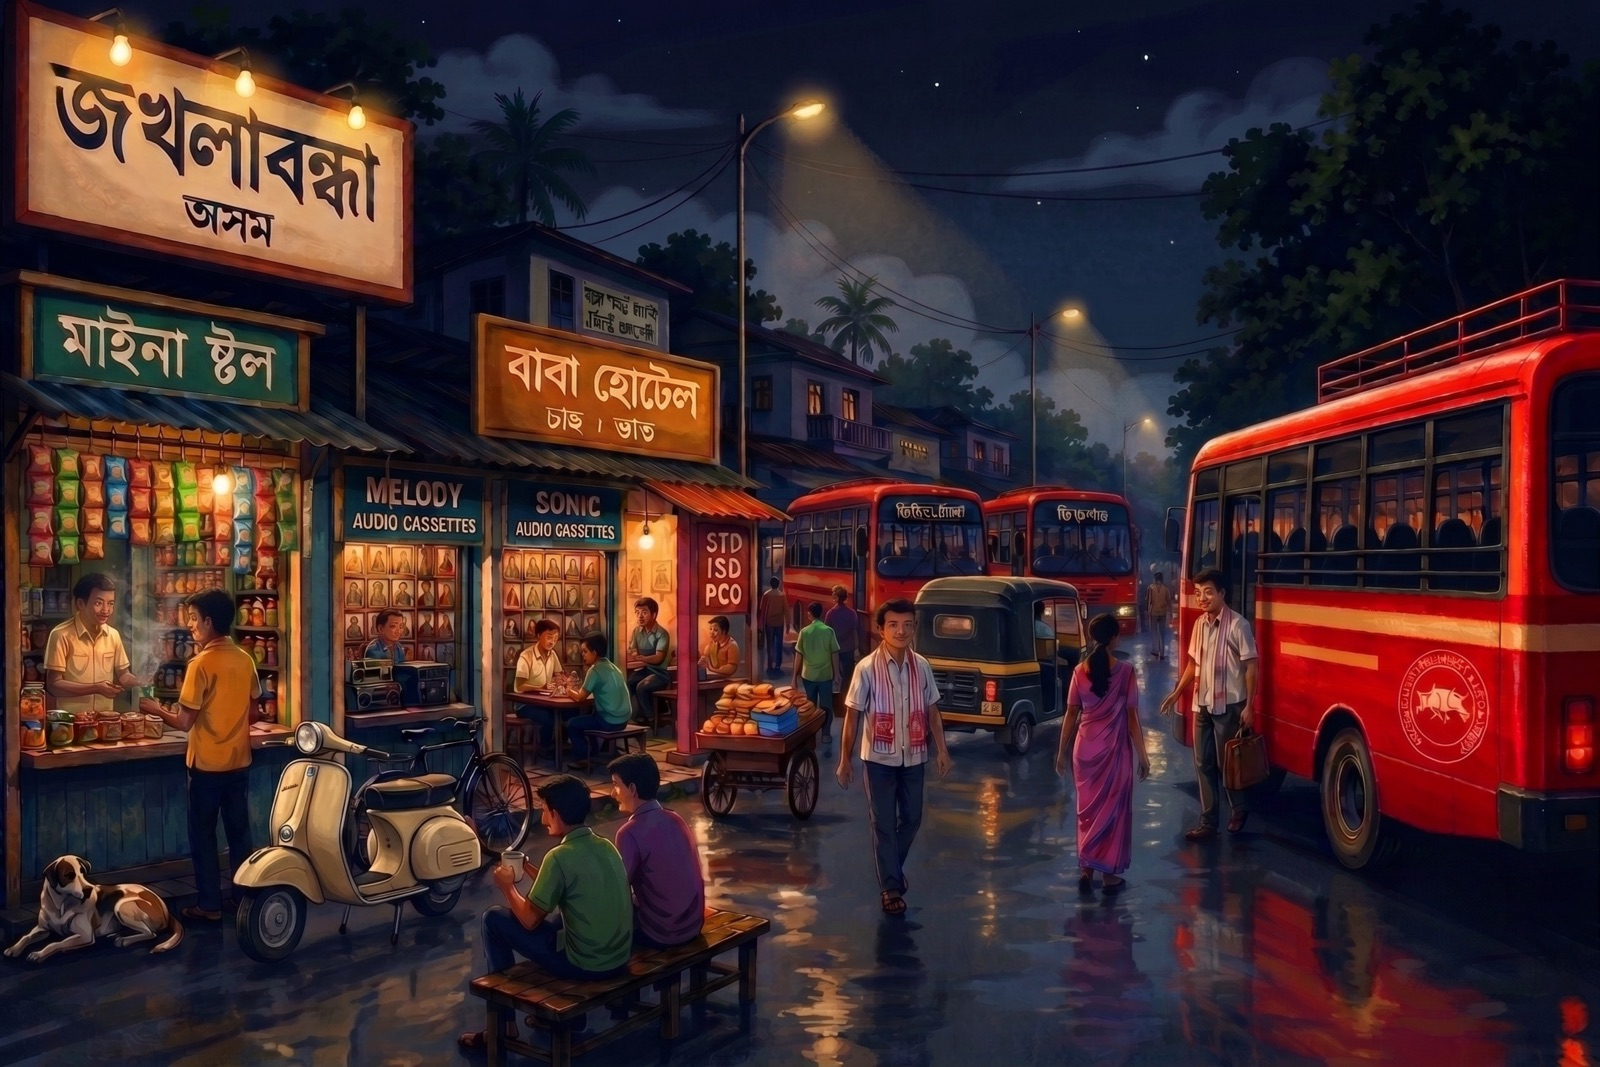
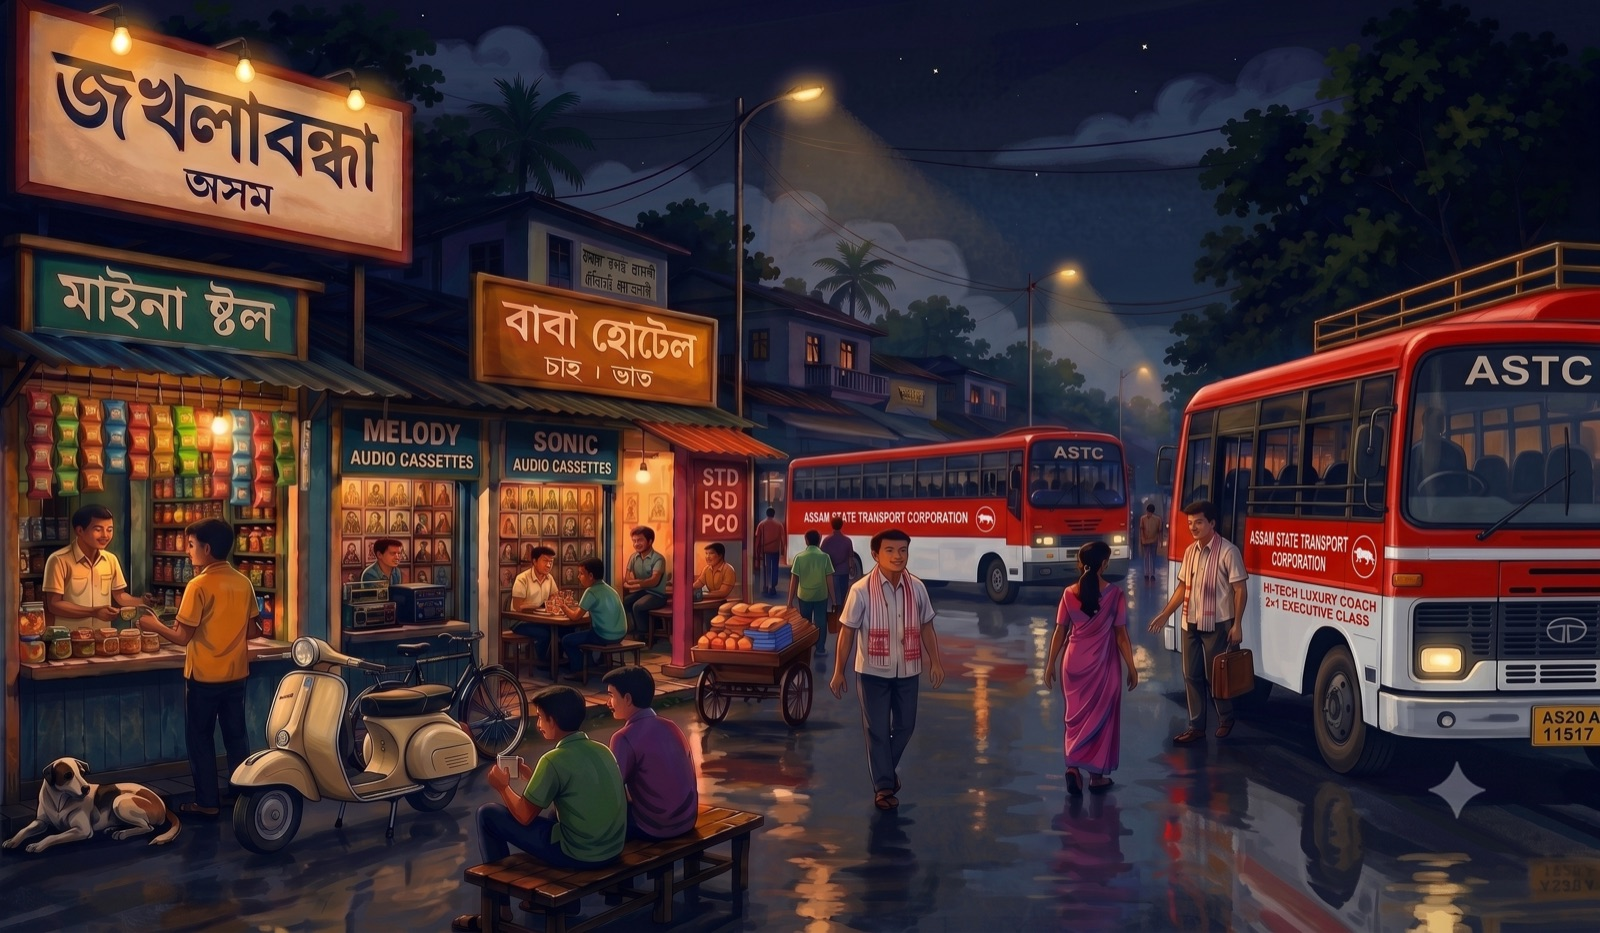
Swap hero artwork to 16:9 edition; move site chrome into page flow

diff --git a/src/components/ui/music-player.tsx b/src/components/ui/music-player.tsx
@@ -18,7 +18,7 @@ interface MusicPlayerProps {
   audioSrc: string;
 }
 
-// The main MusicPlayer component
+// The main MusicPlayer component — a compact, horizontal bar
 export const MusicPlayer: React.FC<MusicPlayerProps> = ({ albumArt, songTitle, artistName, audioSrc }) => {
   const [isPlaying, setIsPlaying] = useState(false);
   const [duration, setDuration] = useState(0);
@@ -84,7 +84,7 @@ export const MusicPlayer: React.FC<MusicPlayerProps> = ({ albumArt, songTitle, a
   const toggleRepeat = () => setIsRepeat(!isRepeat);
 
   return (
-    <div className="relative w-[min(320px,88vw)] rounded-xl border border-[#2F323B] bg-[#0B0B0E]/95 p-5 text-white shadow-[0_35px_70px_-25px_rgba(0,0,0,0.85)] backdrop-blur-md sm:w-[min(360px,88vw)]">
+    <div className="relative flex w-[min(480px,88vw)] items-center gap-3 rounded-xl border border-[#2F323B] bg-[#0B0B0E]/95 p-3 text-white shadow-[0_35px_70px_-25px_rgba(0,0,0,0.85)] backdrop-blur-md sm:gap-4 sm:p-3.5">
        <style>{`
         .player-progress {
             --progress: 0%;
@@ -139,76 +139,72 @@ export const MusicPlayer: React.FC<MusicPlayerProps> = ({ albumArt, songTitle, a
        `}</style>
 
       {/* corner markers */}
-      <Plus size={10} strokeWidth={1.5} className="pointer-events-none absolute left-2.5 top-2.5 text-white/25" />
-      <Plus size={10} strokeWidth={1.5} className="pointer-events-none absolute bottom-2.5 right-2.5 text-white/25" />
+      <Plus size={9} strokeWidth={1.5} className="pointer-events-none absolute left-1.5 top-1.5 text-white/25" />
+      <Plus size={9} strokeWidth={1.5} className="pointer-events-none absolute bottom-1.5 right-1.5 text-white/25" />
 
       <audio ref={audioRef} src={audioSrc} loop={isRepeat} preload="metadata" />
 
-      {/* Head: disc + track details */}
-      <div className="flex items-center gap-4">
-        <div className="relative h-14 w-14 shrink-0 sm:h-16 sm:w-16">
-          <div className={`disc-spin h-full w-full rounded-full ${isPlaying ? 'spinning' : ''}`}>
-            <img
-              src={albumArt}
-              alt={`${songTitle} album art`}
-              className="h-full w-full rounded-full object-cover ring-1 ring-white/15"
-              onError={(e) => { e.currentTarget.src = 'https://placehold.co/224x224/1a1a1a/ffffff?text=Music'; }}
-            />
-          </div>
-          <span className="pointer-events-none absolute left-1/2 top-1/2 h-1.5 w-1.5 -translate-x-1/2 -translate-y-1/2 rounded-full bg-black ring-1 ring-white/30" />
+      {/* Disc */}
+      <div className="relative h-11 w-11 shrink-0 sm:h-12 sm:w-12">
+        <div className={`disc-spin h-full w-full rounded-full ${isPlaying ? 'spinning' : ''}`}>
+          <img
+            src={albumArt}
+            alt={`${songTitle} album art`}
+            className="h-full w-full rounded-full object-cover ring-1 ring-white/15"
+            onError={(e) => { e.currentTarget.src = 'https://placehold.co/224x224/1a1a1a/ffffff?text=Music'; }}
+          />
         </div>
-
-        <div className="min-w-0 flex-1">
-          <p className="font-label text-[9px] uppercase tracking-[0.32em] text-white/40">Now playing</p>
-          <h2 className="font-editorial truncate text-xl leading-tight text-white sm:text-[22px]">{songTitle}</h2>
-          <p className="font-label text-[10px] uppercase tracking-[0.2em] text-white/50">{artistName}</p>
-        </div>
+        <span className="pointer-events-none absolute left-1/2 top-1/2 h-1 w-1 -translate-x-1/2 -translate-y-1/2 rounded-full bg-black ring-1 ring-white/30" />
       </div>
 
-      {/* hairline divider */}
-      <div className="my-4 h-px bg-[#2F323B]" />
+      {/* Track info + progress */}
+      <div className="min-w-0 flex-1">
+        <div className="flex items-baseline justify-between gap-3">
+          <h2 className="font-editorial truncate text-[15px] leading-tight text-white sm:text-base">{songTitle}</h2>
+          <p className="font-label hidden shrink-0 text-[8px] uppercase tracking-[0.18em] text-white/45 sm:block">
+            {artistName}
+          </p>
+        </div>
 
-      {/* Progress */}
-      <input
-        ref={progressBarRef}
-        type="range"
-        min="0"
-        max={duration || 100}
-        value={currentTime}
-        onChange={handleSeek}
-        className="player-progress block w-full"
-        aria-label="Seek through track"
-      />
-      <div className="mt-2 flex items-center justify-between font-label text-[9px] uppercase tracking-[0.14em] text-white/40">
-        <span className="tabular-nums">{formatTime(currentTime)}</span>
-        <span className="text-white/30">33⅓ rpm</span>
-        <span className="tabular-nums">{formatTime(duration)}</span>
+        <input
+          ref={progressBarRef}
+          type="range"
+          min="0"
+          max={duration || 100}
+          value={currentTime}
+          onChange={handleSeek}
+          className="player-progress -mb-1.5 -mt-0.5 block w-full"
+          aria-label="Seek through track"
+        />
+        <div className="flex justify-between font-label text-[8px] uppercase tracking-[0.12em] text-white/35">
+          <span className="tabular-nums">{formatTime(currentTime)}</span>
+          <span className="tabular-nums">{formatTime(duration)}</span>
+        </div>
       </div>
 
       {/* Controls */}
-      <div className="mt-4 flex items-center justify-between">
+      <div className="flex shrink-0 items-center gap-1 sm:gap-2">
         <motion.button
-          whileHover={{ scale: 1.15 }}
-          whileTap={{ scale: 0.85 }}
+          whileTap={{ scale: 0.8 }}
           onClick={toggleShuffle}
           aria-pressed={isShuffle}
-          className={`transition-colors duration-300 ${isShuffle ? 'text-white' : 'text-white/40 hover:text-white/70'}`}
+          aria-label="Shuffle"
+          className={`hidden rounded-full p-1.5 transition-colors duration-300 sm:block ${isShuffle ? 'text-white' : 'text-white/40 hover:text-white/70'}`}
         >
-          <Shuffle size={15} strokeWidth={1.5} />
+          <Shuffle size={13} strokeWidth={1.5} />
         </motion.button>
         <motion.button
-          whileHover={{ scale: 1.15 }}
-          whileTap={{ scale: 0.85 }}
-          className="text-white/60 transition-colors hover:text-white"
+          whileTap={{ scale: 0.8 }}
+          aria-label="Previous track"
+          className="rounded-full p-1.5 text-white/60 transition-colors hover:text-white"
         >
-          <SkipBack size={17} strokeWidth={1.5} />
+          <SkipBack size={15} strokeWidth={1.5} />
         </motion.button>
 
         <motion.button
           onClick={togglePlayPause}
           aria-label={isPlaying ? 'Pause music' : 'Play music'}
-          className="flex h-12 w-12 items-center justify-center rounded-full border border-white/25 bg-white/5 text-white transition-colors hover:bg-white/10"
-          whileHover={{ scale: 1.06 }}
+          className="flex h-11 w-11 items-center justify-center rounded-full border border-white/25 bg-white/5 text-white transition-colors hover:bg-white/10"
           whileTap={{ scale: 0.92 }}
         >
           <AnimatePresence mode="wait" initial={false}>
@@ -220,26 +216,26 @@ export const MusicPlayer: React.FC<MusicPlayerProps> = ({ albumArt, songTitle, a
               transition={{ duration: 0.15 }}
               className="flex items-center justify-center"
             >
-              {isPlaying ? <Pause size={18} strokeWidth={1.75} /> : <Play size={18} strokeWidth={1.75} className="ml-0.5" />}
+              {isPlaying ? <Pause size={16} strokeWidth={1.75} /> : <Play size={16} strokeWidth={1.75} className="ml-0.5" />}
             </motion.span>
           </AnimatePresence>
         </motion.button>
 
         <motion.button
-          whileHover={{ scale: 1.15 }}
-          whileTap={{ scale: 0.85 }}
-          className="text-white/60 transition-colors hover:text-white"
+          whileTap={{ scale: 0.8 }}
+          aria-label="Next track"
+          className="rounded-full p-1.5 text-white/60 transition-colors hover:text-white"
         >
-          <SkipForward size={17} strokeWidth={1.5} />
+          <SkipForward size={15} strokeWidth={1.5} />
         </motion.button>
         <motion.button
-          whileHover={{ scale: 1.15 }}
-          whileTap={{ scale: 0.85 }}
+          whileTap={{ scale: 0.8 }}
           onClick={toggleRepeat}
           aria-pressed={isRepeat}
-          className={`transition-colors duration-300 ${isRepeat ? 'text-white' : 'text-white/40 hover:text-white/70'}`}
+          aria-label="Repeat"
+          className={`hidden rounded-full p-1.5 transition-colors duration-300 sm:block ${isRepeat ? 'text-white' : 'text-white/40 hover:text-white/70'}`}
         >
-          <Repeat size={15} strokeWidth={1.5} />
+          <Repeat size={13} strokeWidth={1.5} />
         </motion.button>
       </div>
     </div>

diff --git a/src/App.tsx b/src/App.tsx
@@ -12,31 +12,8 @@ export default function App() {
         <div className="grain absolute inset-0 opacity-[0.05]" />
       </div>
 
-      {/* ---------------- Discreet site chrome ---------------- */}
-      <header className="pointer-events-none absolute left-[max(1.5rem,env(safe-area-inset-left))] top-[max(1.5rem,env(safe-area-inset-top))] z-30 flex items-center gap-3 sm:left-10 sm:top-8">
-        <span className="grid h-7 w-7 place-items-center rounded-sm border border-white/20">
-          <span className="h-1.5 w-1.5 rounded-full bg-white/70" />
-        </span>
-        <span className="font-label text-[10px] uppercase tracking-[0.35em] text-white/70">90's Assam</span>
-      </header>
-
-      <div className="pointer-events-none absolute right-[max(1.5rem,env(safe-area-inset-right))] top-[max(1.5rem,env(safe-area-inset-top))] z-30 hidden font-label text-[10px] uppercase tracking-[0.3em] text-white/40 md:flex md:items-center md:gap-3 md:right-10 md:top-8">
-        <span>Index 01</span>
-        <span className="h-3 w-px bg-white/20" />
-        <span className="text-white/60">Analog Session</span>
-      </div>
-
-      <footer className="pointer-events-none absolute bottom-[max(1.5rem,env(safe-area-inset-bottom))] left-[max(1.5rem,env(safe-area-inset-left))] z-30 flex flex-col gap-1 font-label text-[9px] uppercase tracking-[0.28em] text-white/35 sm:bottom-8 sm:left-10">
-        <span>26.2006° N — 92.9376° E</span>
-        <span className="text-white/60">Built by Javed Saikia</span>
-      </footer>
-
-      <div className="pointer-events-none absolute bottom-[max(1.5rem,env(safe-area-inset-bottom))] right-[max(1.5rem,env(safe-area-inset-right))] z-30 hidden font-label text-[9px] uppercase tracking-[0.28em] text-white/35 sm:bottom-8 sm:right-10 md:block">
-        © 2026 · Sound on
-      </div>
-
       {/* ---------------- Hero: the artwork, kept as-is ---------------- */}
-      <section className="relative z-10 flex min-h-svh items-center px-[5vw] py-[6vh]">
+      <section className="relative z-10 flex min-h-svh items-center px-[3vw] py-[3vh]">
         {/* blurred colour extension bleeding into the page (desktop only — saves mobile GPU) */}
         <div aria-hidden className="pointer-events-none absolute inset-0 z-0 hidden opacity-20 mix-blend-screen blur-3xl md:block">
           <img src="/cover.jpg" alt="" draggable={false} className="h-full w-full object-cover" />
@@ -45,16 +22,31 @@ export default function App() {
         {/* ambient glow behind the frame */}
         <div aria-hidden className="pointer-events-none absolute z-0 rounded-[24px] bg-[radial-gradient(circle_at_50%_50%,rgba(150,170,215,0.1),transparent_70%)] blur-md" />
 
-        <div className="relative z-10 mx-auto my-auto flex w-fit flex-col items-center gap-7">
+        <div className="relative z-10 mx-auto my-auto flex w-[min(96vw,1800px)] flex-col items-stretch gap-4">
+          {/* top row — above the image, never overlapping it */}
+          <div className="flex items-center justify-between">
+            <p className="flex items-center gap-2 font-label text-[10px] uppercase tracking-[0.35em] text-white/70">
+              <span className="grid h-6 w-6 place-items-center rounded-sm border border-white/20">
+                <span className="h-1.5 w-1.5 rounded-full bg-white/70" />
+              </span>
+              90's Assam
+            </p>
+            <p className="hidden items-center gap-3 font-label text-[10px] uppercase tracking-[0.3em] text-white/40 md:flex">
+              <span>Index 01</span>
+              <span className="h-3 w-px bg-white/20" />
+              <span className="text-white/60">Analog Session</span>
+            </p>
+          </div>
+
           <figure className="relative">
             <img
               src="/cover.jpg"
               srcSet="/cover-mobile.jpg 1600w, /cover.jpg 2528w"
-              sizes="(min-width: 1024px) 70vw, 92vw"
+              sizes="(min-width: 1024px) 90vw, 96vw"
               alt="A cinematic scene — press the record below to play"
               fetchPriority="high"
               draggable={false}
-              className="block h-auto max-h-[64svh] w-auto max-w-[88vw] select-none rounded-xl object-contain shadow-[0_45px_90px_-25px_rgba(0,0,0,0.8),0_18px_40px_-18px_rgba(0,0,0,0.6)]"
+              className="block h-auto max-h-[74svh] w-full max-w-[96vw] select-none rounded-xl object-contain shadow-[0_45px_90px_-25px_rgba(0,0,0,0.8),0_18px_40px_-18px_rgba(0,0,0,0.6)]"
             />
             {/* hairline frame */}
             <div className="pointer-events-none absolute inset-0 rounded-xl ring-1 ring-inset ring-white/10" />
@@ -66,13 +58,20 @@ export default function App() {
           </figure>
 
           {/* The record, resting below the artwork */}
-          <div className="drop-shadow-[0_28px_45px_rgba(0,0,0,0.6)]">
+          <div className="mx-auto drop-shadow-[0_28px_45px_rgba(0,0,0,0.6)]">
             <MusicPlayer
               albumArt="/vinyl.jpg?v=2"
               songTitle="Mai Jaan Tuke dekha Pay"
               artistName="Ridip Dutta"
               audioSrc="/audio/track.mp3"
             />
+          </div>
+
+          {/* bottom row — below the image and player, never overlapping */}
+          <div className="flex items-center justify-between font-label text-[9px] uppercase tracking-[0.28em]">
+            <span className="text-white/35">26.2006° N — 92.9376° E</span>
+            <span className="hidden text-white/30 sm:inline">33⅓ RPM</span>
+            <span className="text-white/60">Built by Javed Saikia — © 2026</span>
           </div>
         </div>
       </section>
